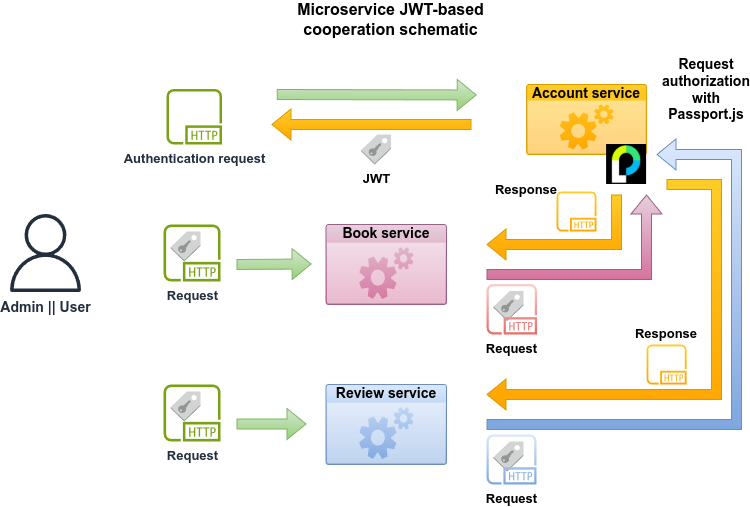
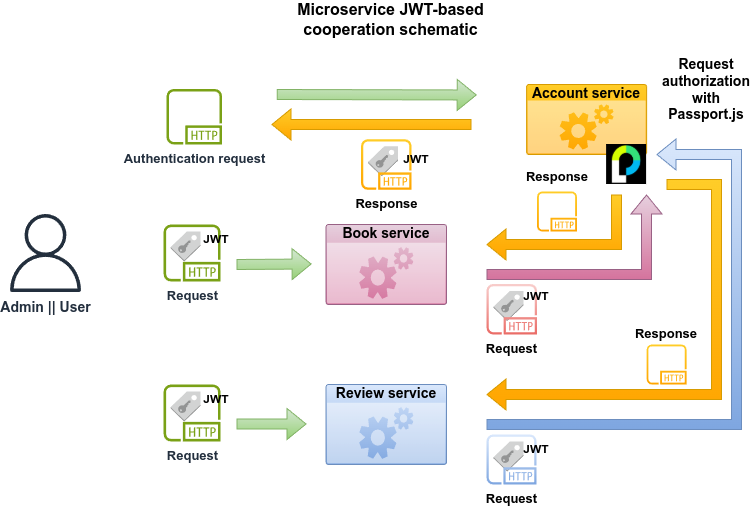
docs: Updated image in img/ and README.

diff --git a/README.md b/README.md
@@ -12,67 +12,46 @@ The implementation uses an approach that combines RESTful endpoints with microse
 - user authentication requests,
 - user authorization requests.
 
-The registration and authentication requests come from the client, while the authorization requests come from the client as well as the **Book** and **Review** services.
+The registration and authentication requests come from the client, while the authorization requests come from the **Book** and **Review** services as well as the client.
 
 ![Book review schematic](./img/book_review_schematic.png)
 
-Each service exposes a number of RESTful endpoints for use by the client, depending on the client's role:
-
-- **Admin role**
-
-  - Account service
-    - User info update,
-    - User info retrieval
-  - Book service
-    - Author info addition,
-    - Author info update,
-    - Author info retrieval by ID,
-    - Book info addition,
-    - Book info update,
-    - Book info retrieval by ID,
-    - BookAuthor info addition,
-    - Edition info addition,
-    - Edition info update,
-    - Edition info retrieval by book,
-    - Edition info retrieval by ISBN
-
-- **User role**
-  - Account Service
-    - User info update,
-    - User info retrieval,
-    - Personal info addition,
-    - Personal info update,
-    - Personal info retrieval by username
-  - Book service
-    - Book info retrieval by title,
-    - Book info retrieval by genre,
-    - Full (book + author + edition) book info retrieval by ID
-  - Review service
-    - Review info addition,
-    - Review info update,
-    - Review info retrieval by ID,
-    - Review info retrieval by book,
-    - Review info retrieval by username,
-    - Review info retrieval by (composite) index
-
-The following endpoints are open to all users, irrespective of their role:
+Depending on the client's role, each service exposes a number of RESTful endpoints for use by the client. However, the following endpoints are open to all users, irrespective of their role:
 
 - User registration,
-- User login
+- User login.
 
 Finally, the **Account** service exposes an inter-service endpoint to accommodate requests for user authorization by the **Book** and **Review** services.
 
 ## Prerequisites
 
-- Nodejs (v22.13.1)[^1],
+- Node.js (v22.13.1)[^1],
 - Redis server (v7.4.2),
 - MongoDB,
 - MySQL (v8 or higher).
+
+## Testing
+
+Each service follows the same pattern in test organization: unit, backend and database integration tests. Please note that all tests are located in a dedicated **test branch**.
+
+- Account service tests: [click here](https://github.com/geozi/nodejs-typescript-book-review/tree/test/services/account-service/tests)
+- Book service tests: [click here](https://github.com/geozi/nodejs-typescript-book-review/tree/test/services/book-service/tests)
+- Review service tests: [click here](https://github.com/geozi/nodejs-typescript-book-review/tree/test/services/review-service/tests)
 
 ## Security
 
 - **Authentication**: Single factor, local authentication.
 - **Authorization**: JSON Web Token (JWT).
+
+## Differences with previous Typescript projects
+
+Compared to previous Typescript projects, the Book Review app is different in its use of:
+
+- [c8](https://www.npmjs.com/package/c8) for code coverage during testing,
+- [Redis](https://redis.io/) server for caching in the Account service,
+- [MySQL](https://www.mysql.com/) database for storing book-related information,
+- [TypeORM](https://typeorm.io/) for interaction with MySQL,
+- [Axios](https://axios-http.com/docs/intro) for inter-service communication over HTTP.
 
 ##
 
